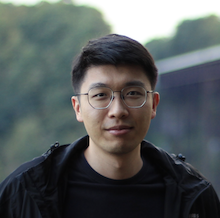
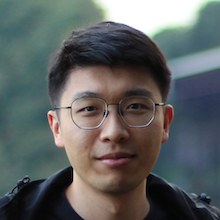
set fixed photo size

diff --git a/people.html b/people.html
@@ -35,27 +35,27 @@
 									</header>
 									<ul style="list-style-type:none">
 											<li><div class="people_blob"><div class="people_img_float">
-												<a href="https://corpling.uis.georgetown.edu/amir/"><img src="images/azeldes.jpg" class="img-circle" alt="Amir Zeldes"></a>
+												<a href="https://corpling.uis.georgetown.edu/amir/"><img src="images/azeldes.jpg" height="110" width="110" class="img-circle" alt="Amir Zeldes"></a>
 												</div><p class="research_lead">
 												<a href="https://corpling.uis.georgetown.edu/amir/"><b>Amir Zeldes</b></a></p><p>Associate Professor of Computational Linguistics</p></div></li>
 											<li><div class="people_blob"><div class="people_img_float">
-												<img src="images/sbehzad.JPG" class="img-circle" alt="Shabnam Behzad">
+												<img src="images/sbehzad.JPG" height="110" width="110" class="img-circle" alt="Shabnam Behzad">
 												</div><p class="research_lead">
 												<a href="https://shabnam-b.github.io/"><b>Shabnam Behzad</b></a></p><p>PhD Student in Computer Science, CL &amp; NLP</p></div></li>
 											<li><div class="people_blob"><div class="people_img_float">
-												<a href="https://lgessler.com/"><img src="images/lgessler.jpg" class="img-circle" alt="Luke Gessler"></a>
+												<a href="https://lgessler.com/"><img src="images/lgessler.jpg" height="110" width="110" class="img-circle" alt="Luke Gessler"></a>
 												</div><p class="research_lead">
 												<a href="https://lgessler.com/"><b>Luke Gessler</b></a></p><p>PhD Student in Computational Linguistics, CL &amp; Language Documentation</p></div></li>
 											<li><div class="people_blob"><div class="people_img_float">
-												<img src="images/jliu.jpg" class="img-circle" alt="Janet Yang">
+												<img src="images/jliu.jpg" height="110" width="110" class="img-circle" alt="Janet Yang">
 												</div><p class="research_lead">
 												<a href="https://janetlauyeung.github.io/"><b>Janet Liu</b></a></p><p>PhD Student in Computational Linguistics, Discourse Processing, Pragmatics, Linguistic Annotation</p></div></li>
 											<li><div class="people_blob"><div class="people_img_float">
-												<img src="images/speng.jpg" class="img-circle" alt="Siyao (Logan) Peng">
+												<img src="images/speng.jpg" height="110" width="110" class="img-circle" alt="Siyao (Logan) Peng">
 												</div><p class="research_lead">
 												<a href="https://logan-siyao-peng.github.io/"><b>Siyao (Logan) Peng</b></a></p><p>PhD Student in Computational Linguistics, CL &amp; NLP, syntax/semantics/discourse representations</p></div></li>
 											<li><div class="people_blob"><div class="people_img_float">
-												<img src="images/yzhu.png" class="img-circle" alt="Yilun Zhu">
+												<img src="images/yzhu.png" height="110" width="110" class="img-circle" alt="Yilun Zhu">
 												</div><p class="research_lead">
 												<a href="https://yilunzhu.com"><b>Yilun Zhu</b></a></p><p>PhD Student in Linguistics, coreference resolution, automatic corpus annotation</p></div></li>
 									</ul>
@@ -64,19 +64,19 @@
 									</header>
 									<ul style="list-style-type:none">
 											<li><div class="people_blob"><div class="people_img_float">
-												<a href="http://www.seanskylersimpson.com/"><img src="images/ssimpson.jpg" class="img-circle" alt="Sean Simpson"></a>
+												<a href="http://www.seanskylersimpson.com/"><img src="images/ssimpson.jpg" height="110" width="110" class="img-circle" alt="Sean Simpson"></a>
 												</div><p class="research_lead">
 												<a href="http://www.seanskylersimpson.com/"><b>Sean Simpson</b></a></p><p>PhD in Computational Linguistics (2019), Analytical Linguist at Google</p></div></li>
 											<li><div class="people_blob"><div class="people_img_float">
-												<img src="images/mabrams.jpg" class="img-circle" alt="Mitchell Abrams">
+												<img src="images/mabrams.jpg" height="110" width="110" class="img-circle" alt="Mitchell Abrams">
 												</div><p class="research_lead">
 												<a href="http://mjabrams.com/"><b>Mitchell Abrams</b></a></p><p>MS in Computational Linguistics (2019), Junior Computational Linguist at Army Research Laboratory</p></div></li>
 											<li><div class="people_blob"><div class="people_img_float">
-												<a href="http://thedansimonson.com/"><img src="images/dsimonson.jpg" class="img-circle" alt="Dan Simonson"></a>
+												<a href="http://thedansimonson.com/"><img src="images/dsimonson.jpg" height="110" width="110" class="img-circle" alt="Dan Simonson"></a>
 												</div><p class="research_lead">
 												<a href="http://thedansimonson.com/"><b>Dan Simonson</b></a></p><p>PhD in Computational Linguistics (2017), Senior Computational Linguist at BlackBoiler LLC</p></div></li>
 											<li><div class="people_blob"><div class="people_img_float">
-												<a href="http://zangsir.weebly.com/"><img src="images/szhang.jpg" class="img-circle" alt="Shuo Zhang"></a>
+												<a href="http://zangsir.weebly.com/"><img src="images/szhang.jpg" height="110" width="110" class="img-circle" alt="Shuo Zhang"></a>
 												</div><p class="research_lead">
 												<a href="http://zangsir.weebly.com/"><b>Shuo Zhang</b></a></p><p>PhD in Computational Linguistics (2017), now Senior Machine Learning Engineer at Bose</p></div></li>
 
